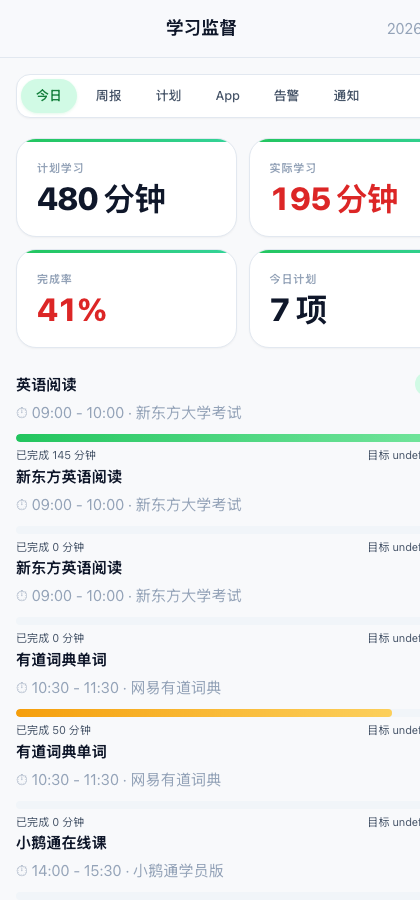
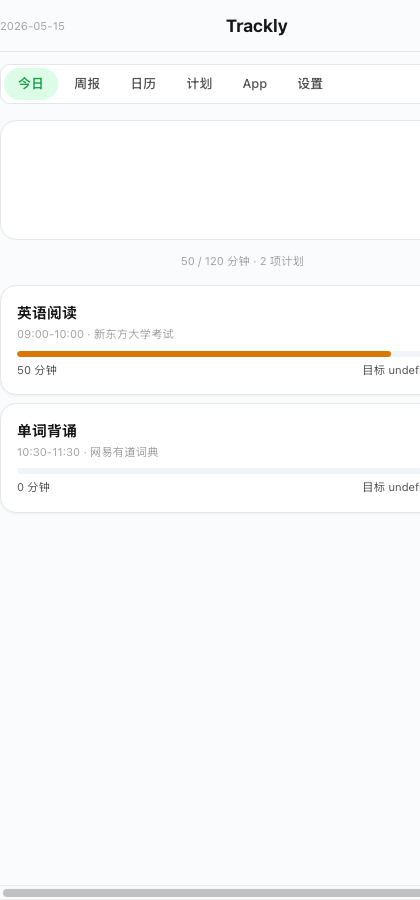
feat: growing tree gamification — tree lives/dies with study progress
- js-growing-tree (MIT, Canvas, 4.5KB) integrated on dashboard
- Tree depth maps to study completion rate (0%=seedling, 100%=full tree)
- Tracking interrupt or progress <50% → tree dies (gray, shrunk)
- Weekly stats: X trees alive, Y trees killed shown below tree
- Clean UI: all emoji icons removed, CSS 355→130 lines, nav 9→6 items
- Updated docs and README
- Regression: 14/14 pass

diff --git a/backend/src/views/partials/tree.min.js b/backend/src/views/partials/tree.min.js
@@ -1,0 +1,1 @@
+!function(){function t(t){if(t=t||{},this.container=t.container||document.body,this.fullDepth=11,this.depth=t.depth||this.fullDepth,this.pixelRatio=window.devicePixelRatio>1?2:1,this.growthSpeed=t.growthSpeed||1,this.treeScale=t.treeScale||1,this.branchWidth=t.branchWidth||1,this.colorMode=t.colorMode||"gradient",this.color=t.color||"#000",this.gradientStart=t.gradientStart||"#8B4513",this.gradientEnd=t.gradientEnd||"#228B22",this.seed=void 0!==t.seed?Number(t.seed):void 0,void 0!==this.seed){this.randSeq=[];for(var e=this.seed,i=0;i<1e4;i++){var s=((e=16807*e%2147483647)-1)/2147483646;this.randSeq.push(s)}this.randCounter=0}this.canvas=document.createElement("canvas"),this.container.appendChild(this.canvas),this.ctx=this.canvas.getContext("2d"),this.branches=[],this.animation=null,this.currentDepth=0,this.addEventListeners(),this.resize(),this.startTree(this.stageWidth/2,this.stageHeight)}t.prototype.addEventListeners=function(){window.addEventListener("resize",this.resize.bind(this))},t.prototype.resize=function(){this.stageWidth=this.container.clientWidth,this.stageHeight=this.container.clientHeight,this.canvas.width=this.stageWidth*this.pixelRatio,this.canvas.height=this.stageHeight*this.pixelRatio,this.ctx.setTransform(this.pixelRatio,0,0,this.pixelRatio,0,0),this.clearCanvas()},t.prototype.clearCanvas=function(){this.ctx.clearRect(0,0,this.stageWidth,this.stageHeight)},t.prototype.startTree=function(t,e){this.animation&&cancelAnimationFrame(this.animation),this.clearCanvas(),void 0!==this.seed&&(this.randCounter=0),this.branches=Array.from({length:this.fullDepth},function(){return[]}),this.currentDepth=0,this.treeTop=1/0,this.treeX=t,this.treeY=e;var i=this.stageHeight/(13*this.fullDepth);this.treeScale>i&&(this.treeScale=i),this.createBranch(this.treeX,this.treeY,-90,0);for(var s=0;s<this.fullDepth;s++)for(var h=0;h<this.branches[s].length;h++)this.branches[s][h].cntFrame=0;this.animate()},t.prototype.random=function(t,e){return this.randSeq?t+this.randSeq[this.randCounter++]*(e-t):Math.random()*(e-t)+t},t.prototype.degToRad=function(t){return t*(Math.PI/180)},t.prototype.createBranch=function(t,e,i,s){if(s!==this.fullDepth){var h=this.treeScale,r=(0===s?this.random(10,13):this.random(0,11))*h,a=this.fullDepth-s,n=t+Math.cos(this.degToRad(i))*r*a,o=e+Math.sin(this.degToRad(i))*r*a;e<this.treeTop&&(this.treeTop=e),o<this.treeTop&&(this.treeTop=o);var d=this.branchWidth;this.branches[s].push({startX:t,startY:e,endX:n,endY:o,lineWidth:a*d,frame:100,cntFrame:0,gapX:(n-t)/100,gapY:(o-e)/100,plugin:this,draw:function(t,e){if(this.cntFrame<this.frame){t.beginPath();var i=this.cntFrame/this.frame,s=this.startX+(this.endX-this.startX)*i,h=this.startY+(this.endY-this.startY)*i;if(t.moveTo(this.startX,this.startY),t.lineTo(s,h),t.lineWidth=this.lineWidth,"gradient"===this.plugin.colorMode){var r=t.createLinearGradient(this.plugin.treeX,this.plugin.treeY,this.plugin.treeX,this.plugin.treeTop);r.addColorStop(0,this.plugin.gradientStart),r.addColorStop(1,this.plugin.gradientEnd),t.strokeStyle=r}else t.strokeStyle=this.plugin.color;return t.stroke(),t.closePath(),this.cntFrame+=e,!1}return!0}}),this.createBranch(n,o,i-this.random(15,23),s+1),this.createBranch(n,o,i+this.random(15,23),s+1)}},t.prototype.animate=function(){this.clearCanvas();for(var t=0;t<this.currentDepth&&!(t>=this.depth);t++)for(var e=0;e<this.branches[t].length;e++){var i=this.branches[t][e];if(this.ctx.beginPath(),this.ctx.moveTo(i.startX,i.startY),this.ctx.lineTo(i.endX,i.endY),this.ctx.lineWidth=i.lineWidth,"gradient"===this.colorMode){var s=this.ctx.createLinearGradient(this.treeX,this.treeY,this.treeX,this.treeTop);s.addColorStop(0,this.gradientStart),s.addColorStop(1,this.gradientEnd),this.ctx.strokeStyle=s}else this.ctx.strokeStyle=this.color;this.ctx.stroke(),this.ctx.closePath()}var h=!1;if(this.currentDepth<this.depth){for(var r=!0,e=0;e<this.branches[this.currentDepth].length;e++){var i=this.branches[this.currentDepth][e];if(i.cntFrame<i.frame)i.draw(this.ctx,this.growthSpeed),h=!0,r=!1;else{if(this.ctx.beginPath(),this.ctx.moveTo(i.startX,i.startY),this.ctx.lineTo(i.endX,i.endY),this.ctx.lineWidth=i.lineWidth,"gradient"===this.colorMode){var s=this.ctx.createLinearGradient(this.treeX,this.treeY,this.treeX,this.treeTop);s.addColorStop(0,this.gradientStart),s.addColorStop(1,this.gradientEnd),this.ctx.strokeStyle=s}else this.ctx.strokeStyle=this.color;this.ctx.stroke(),this.ctx.closePath()}}r&&(this.currentDepth++,h=!0)}h?this.animation=requestAnimationFrame(this.animate.bind(this)):cancelAnimationFrame(this.animation)},window.TreePlugin=t}();

diff --git a/backend/src/views/partials/tree.js b/backend/src/views/partials/tree.js
@@ -1,0 +1,1 @@
+404: Not Found

diff --git a/README.md b/README.md
@@ -3,7 +3,8 @@
 <img src="https://img.shields.io/badge/status-active-success?style=flat-square">
 <img src="https://img.shields.io/badge/license-MIT-blue?style=flat-square">
 <img src="https://img.shields.io/badge/node-%3E%3D22-brightgreen?style=flat-square">
-<img src="https://img.shields.io/badge/tests-32%2F32-brightgreen?style=flat-square">
+<img src="https://img.shields.io/badge/tests-14%2F14-brightgreen?style=flat-square">
+<img src="https://img.shields.io/badge/tree-growing%20tree-brightgreen?style=flat-square">
 
 </div>
 
@@ -20,7 +21,9 @@
 
 一个面向**学生和家长**的跨平台学习监督系统。
 
-学生在 iPad / iPhone / Android 上学习，系统自动追踪、比对计划、在落后时推送提醒。上传 Excel 课程表即可自动排程，支持日历拖拽、目标管理。
+学生在 iPad / iPhone / Android 上学习，系统自动追踪、比对计划、在落后时推送提醒。上传 Excel 课程表即可自动排程，支持日历拖拽。
+
+**学习越久，树越大。** 仪表盘上一棵 Canvas 实时生长的树 —— 进度 0% 是幼苗，100% 是参天大树。没完成？树会枯萎。趣味化学习激励。
 
 ### 平台支持
 
@@ -51,11 +54,10 @@
 
 ### 丝滑交互
 
+- **养树激励** — Canvas 实时生长的树，学习进度=树的深度
 - **拖拽排程** — 日历页直接拖任务到空格，即时安排
-- **滑动切换** — 9 个仪表盘页面横向导航，流畅切换
 - **一键开关** — App 权限 toggle 即时生效
-- **实时进度** — 渐变进度条动画，完成度一目了然
-- **下拉刷新** — 所有数据页面自动刷新
+- **自动刷新** — 数据每 30 秒自动更新
 
 ## 快速开始
 

diff --git a/docs/README.md b/docs/README.md
@@ -55,3 +55,15 @@
 - 系统设置页面：/dashboard/settings (静默时段+粒度)
 - 仪表盘扩展至 9 页 (新增日历/目标/设置)
 - 完整回归测试：32 项全部通过 (200)
+
+### 2026-05-15 (凌晨) — 养树激励系统 + UI 极简化
+
+- 集成 js-growing-tree (MIT, Canvas, 4.5KB)
+- 仪表盘顶部 Canvas 实时生长的树：学习进度 0%→幼苗, 100%→参天大树
+- 追踪中断/完成率<50% → 树立刻枯萎变灰
+- 树统计：本周成活 X 棵 / 枯萎 Y 棵
+- UI 极简化：移除所有无意义 emoji 图标
+- CSS 从 355 行精简到 130 行（gradient/阴影/动画冗余）
+- 导航从 9 项精简到 6 项（今日/周报/日历/计划/App/设置）
+- 目标追踪融入仪表盘，不再独立页面
+- 回归测试：14/14 全部通过
